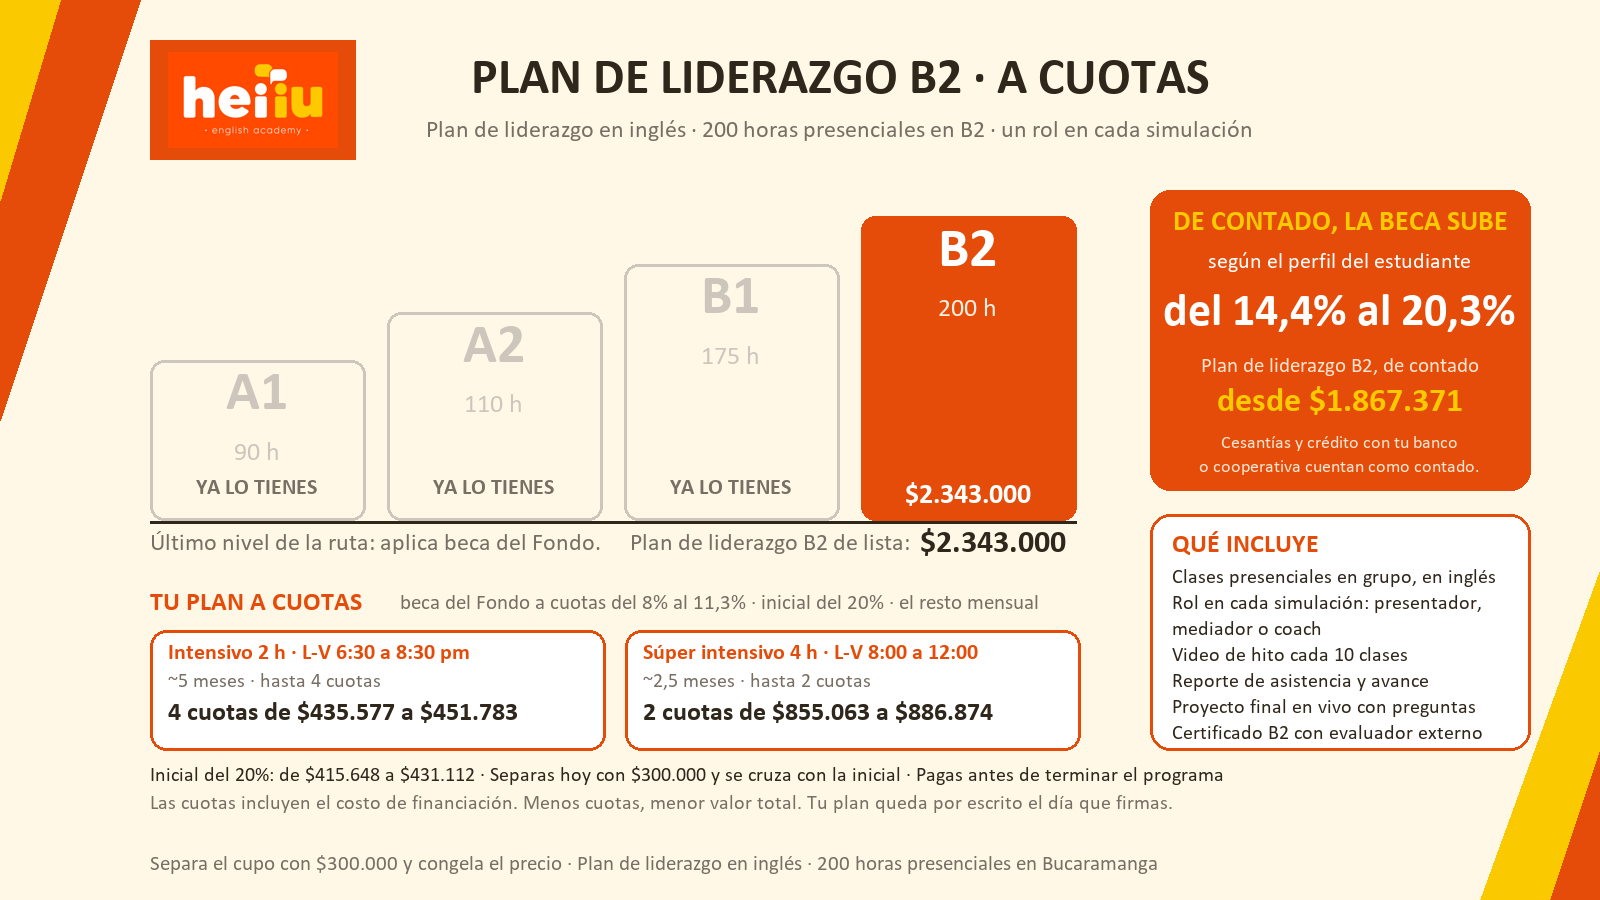
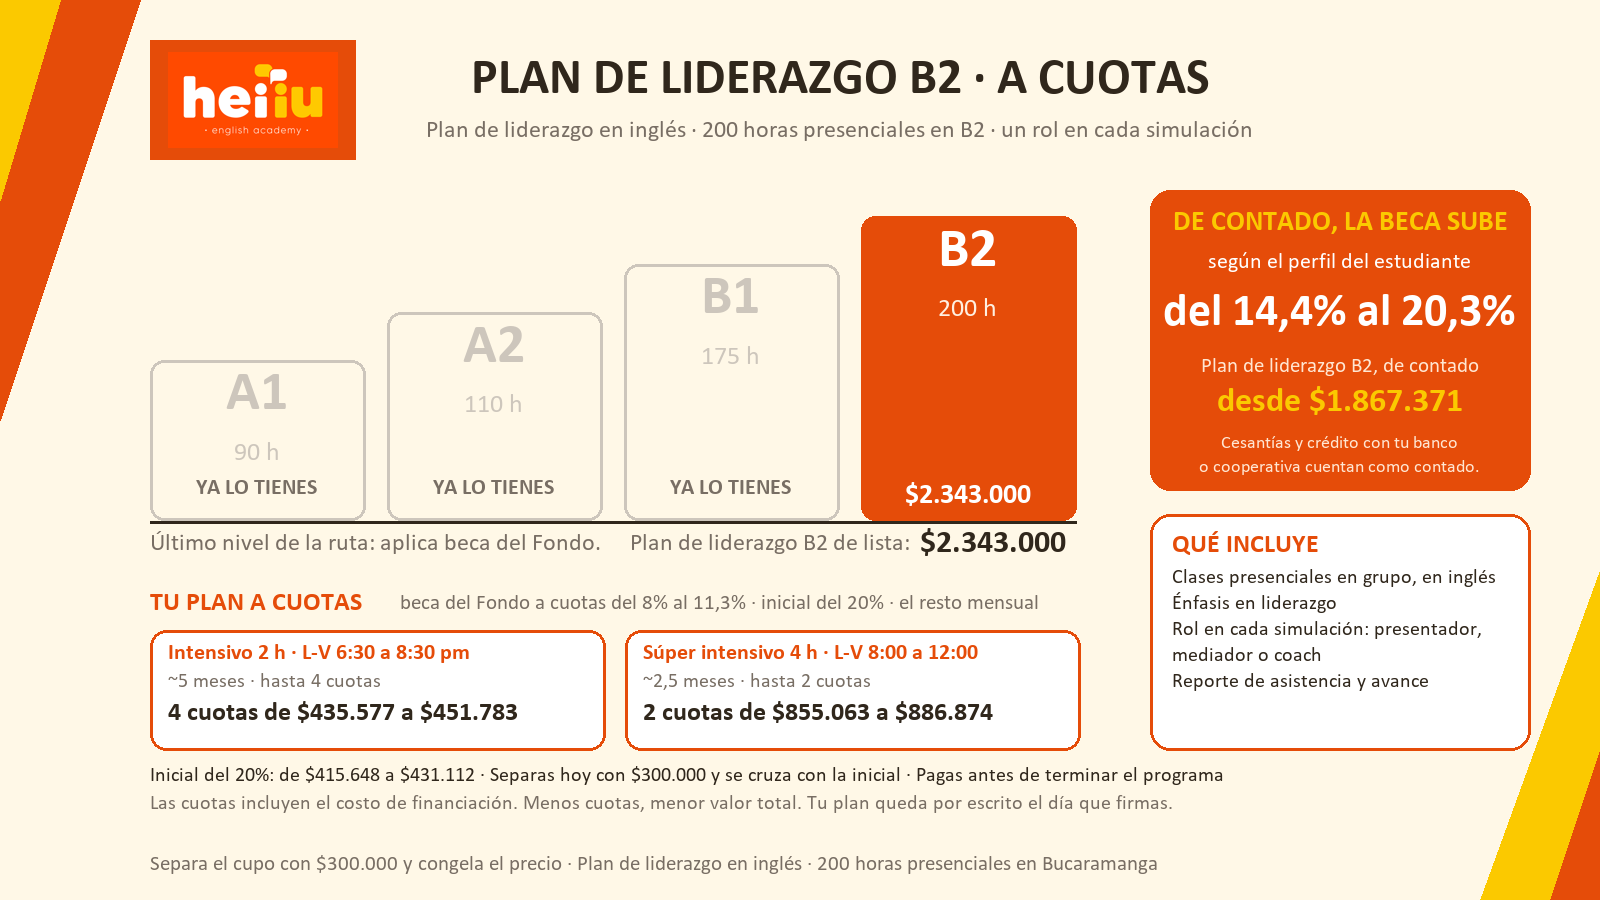
Plan de liderazgo: se retiran video de hito, certificado y proyecto final con preguntas; queda enfasis en liderazgo, rol en cada simulacion y reporte de asistencia y avance

Changed region(s): [[0.7188, 0.6533, 0.9375, 0.7467], [0.7188, 0.7778, 0.9375, 0.84]]

diff --git a/generadores/comercial/gen_plan_liderazgo_joven_pdf.py b/generadores/comercial/gen_plan_liderazgo_joven_pdf.py
@@ -95,7 +95,7 @@ bullets([
     ('Entra directo a B2: ', 'la prueba de ubicación (examen en línea y entrevista oral) confirma el nivel. No repite nada.'),
     ('Clases presenciales en inglés, de pie, ', 'con simulaciones de la vida real y del mundo profesional. Nada de pantalla.'),
     ('Un rol en cada simulación: ', 'presentador, mediador o coach. Como coach observa a sus compañeros, anota y les da retroalimentación en inglés.'),
-    ('Reto que sube: ', 'cada 10 clases un hito grabado, con más público y menos tiempo de preparación.'),
+    ('Énfasis en liderazgo: ', 'en cada clase se le pide dirigir algo: una presentación, un debate o una decisión del grupo.'),
     ('Tarea: ', 'preparar sus intervenciones (la presentación, el debate, el pitch) para llegar a defenderlas.'),
 ], m + 10, top - 144, cw - 20)
 
@@ -122,12 +122,10 @@ flow([P('CARÁCTER, NO SOLO IDIOMA', 8.8, NAR2, True, TA_CENTER),
 py_top = bot - 14; p_h = 166; py = py_top - p_h
 rbox(m, py, cw, p_h, white, LINEA, 10)
 rbox(x2, py, cw, p_h, white, LINEA, 10)
-flow([P('LO QUE USTED VE COMO ACUDIENTE', 9.6, NAR2, True)], m + 12, py_top - 18, cw - 24, 16)
-bullets([('Grabación de entrada el primer día, ', 'archivada en la academia como punto de partida.'),
-         ('Video de hito cada 10 clases: ', 'el avance se ve, no se cuenta.'),
-         ('Reporte de asistencia y avance: ', 'puntualidad, participación y roles cumplidos. Las evaluaciones las comunica coordinación.'),
-         ('Proyecto final en vivo ', 'con preguntas del público, grabación de salida y su video del antes y el después.'),
-         ('Certificado oficial B2 ', 'con examen final aplicado por un evaluador externo.')],
+flow([P('LO QUE USTED RECIBE COMO ACUDIENTE', 9.6, NAR2, True)], m + 12, py_top - 18, cw - 24, 16)
+bullets([('Reporte de asistencia y avance: ', 'puntualidad, participación y roles cumplidos en clase.'),
+         ('Las evaluaciones las comunica coordinación, ', 'nunca el profesor en el pasillo.'),
+         ('Un plan con énfasis en liderazgo: ', 'el inglés es el medio; lo que se le exige es dirigir, presentar, mediar y decidir.')],
         m + 10, py_top - 24, cw - 20, gap=2.2, size=8.6)
 flow([P('CÓMO EMPEZAR', 9.6, NAR2, True)], x2 + 12, py_top - 18, cw - 24, 16)
 bullets([('1. Prueba de ubicación ', 'que confirme el nivel B2 (examen en línea desde casa y entrevista oral corta).'),
@@ -142,7 +140,7 @@ c.showPage()
 
 # ======================= PÁGINA 2: LAS 200 HORAS =======================
 band2 = 84
-header('Su plan: 200 horas en B2', 'Dos fases y un proyecto final · cada simulación con un rol para él · hito grabado en las clases 10, 20, 30 y 40', band2)
+header('Su plan: 200 horas en B2', 'Dos fases · cada simulación con un rol para él · énfasis en liderazgo', band2)
 
 fases = [
  ('FASE 1', 'LA VIDA REAL EN INGLÉS', 'primera mitad',
@@ -172,22 +170,13 @@ for i, (fase, nom, cuando, que, rol) in enumerate(fases):
          m2 + 90, yb + 7, cw2 - 100, card_h2 - 12)
     yt = yb - gap2
 
-# proyecto final
-ph = 96; yb = yt - ph
-rbox(m2, yb, cw2, ph, NAR, None, 12)
-flow([P('PROYECTO FINAL EN VIVO', 12, AMA, True, TA_LEFT),
-      P('Un proyecto propio, presentado frente al grupo y a los invitados, con preguntas del público al final. Ese día se graba su salida y queda su video del antes y el después: '
-        'la grabación del primer día al lado de la última. Después, el examen final de B2 con un evaluador externo y su certificado oficial.', 9.4, white, False, TA_LEFT, 12.2)],
-     m2 + 16, yb + 8, cw2 - 32, ph - 14)
-yt = yb - gap2
-
 # nota final
 nh = 84; ny = yt - nh
 rbox(m2, ny, cw2, nh, CREMA, None, 10)
 c.setFillColor(AMA); c.roundRect(m2, ny, 6, nh, 3, fill=1, stroke=0)
 flow([P('Lo que no vendemos: ', 9.2, NAR2, True),
       P('no es un curso de inglés para él: el inglés ya lo trae. Es un entrenamiento de liderazgo exigente, en inglés y en un grupo de adultos, donde se le pide más de lo que está acostumbrado a dar. '
-        'No prometemos que sea fácil ni cómodo. Prometemos un reto a su medida, un rol en cada clase y pruebas en video de dónde empezó y dónde terminó.', 8.8, NEGRO, False, TA_LEFT, 11.4)],
+        'No prometemos que sea fácil ni cómodo. Prometemos un reto a su medida y un rol en cada clase.', 8.8, NEGRO, False, TA_LEFT, 11.4)],
      m2 + 16, ny + 5, cw2 - 28, nh - 10)
 
 footer('Heiiu English Academy, Bucaramanga · Instagram @Heiiu_english')

diff --git a/generadores/comercial/gen_pieza_financiado_cliente.py b/generadores/comercial/gen_pieza_financiado_cliente.py
@@ -35,8 +35,8 @@ RUTAS = {
                horas=200, full=2343000, bq=(11.3, 8), bc=(14.4, 20.3), n2=4, n4=2, dur2='~5 meses', dur4='~2,5 meses',
                nota='Ultimo nivel de la ruta: aplica beca del Fondo.',
                sub='Plan de liderazgo en inglés · 200 horas presenciales en B2 · un rol en cada simulación',
-               incluye=['Clases presenciales en grupo, en inglés', 'Rol en cada simulación: presentador,', 'mediador o coach', 'Video de hito cada 10 clases',
-                        'Reporte de asistencia y avance', 'Proyecto final en vivo con preguntas', 'Certificado B2 con evaluador externo'],
+               incluye=['Clases presenciales en grupo, en inglés', 'Énfasis en liderazgo', 'Rol en cada simulación: presentador,', 'mediador o coach',
+                        'Reporte de asistencia y avance'],
                pie='Separa el cupo con $300.000 y congela el precio · Plan de liderazgo en inglés · 200 horas presenciales en Bucaramanga',
                outdir=os.path.join(BASE, 'recursos', 'personalizados', 'JOVEN_BILINGUE')),
 }
